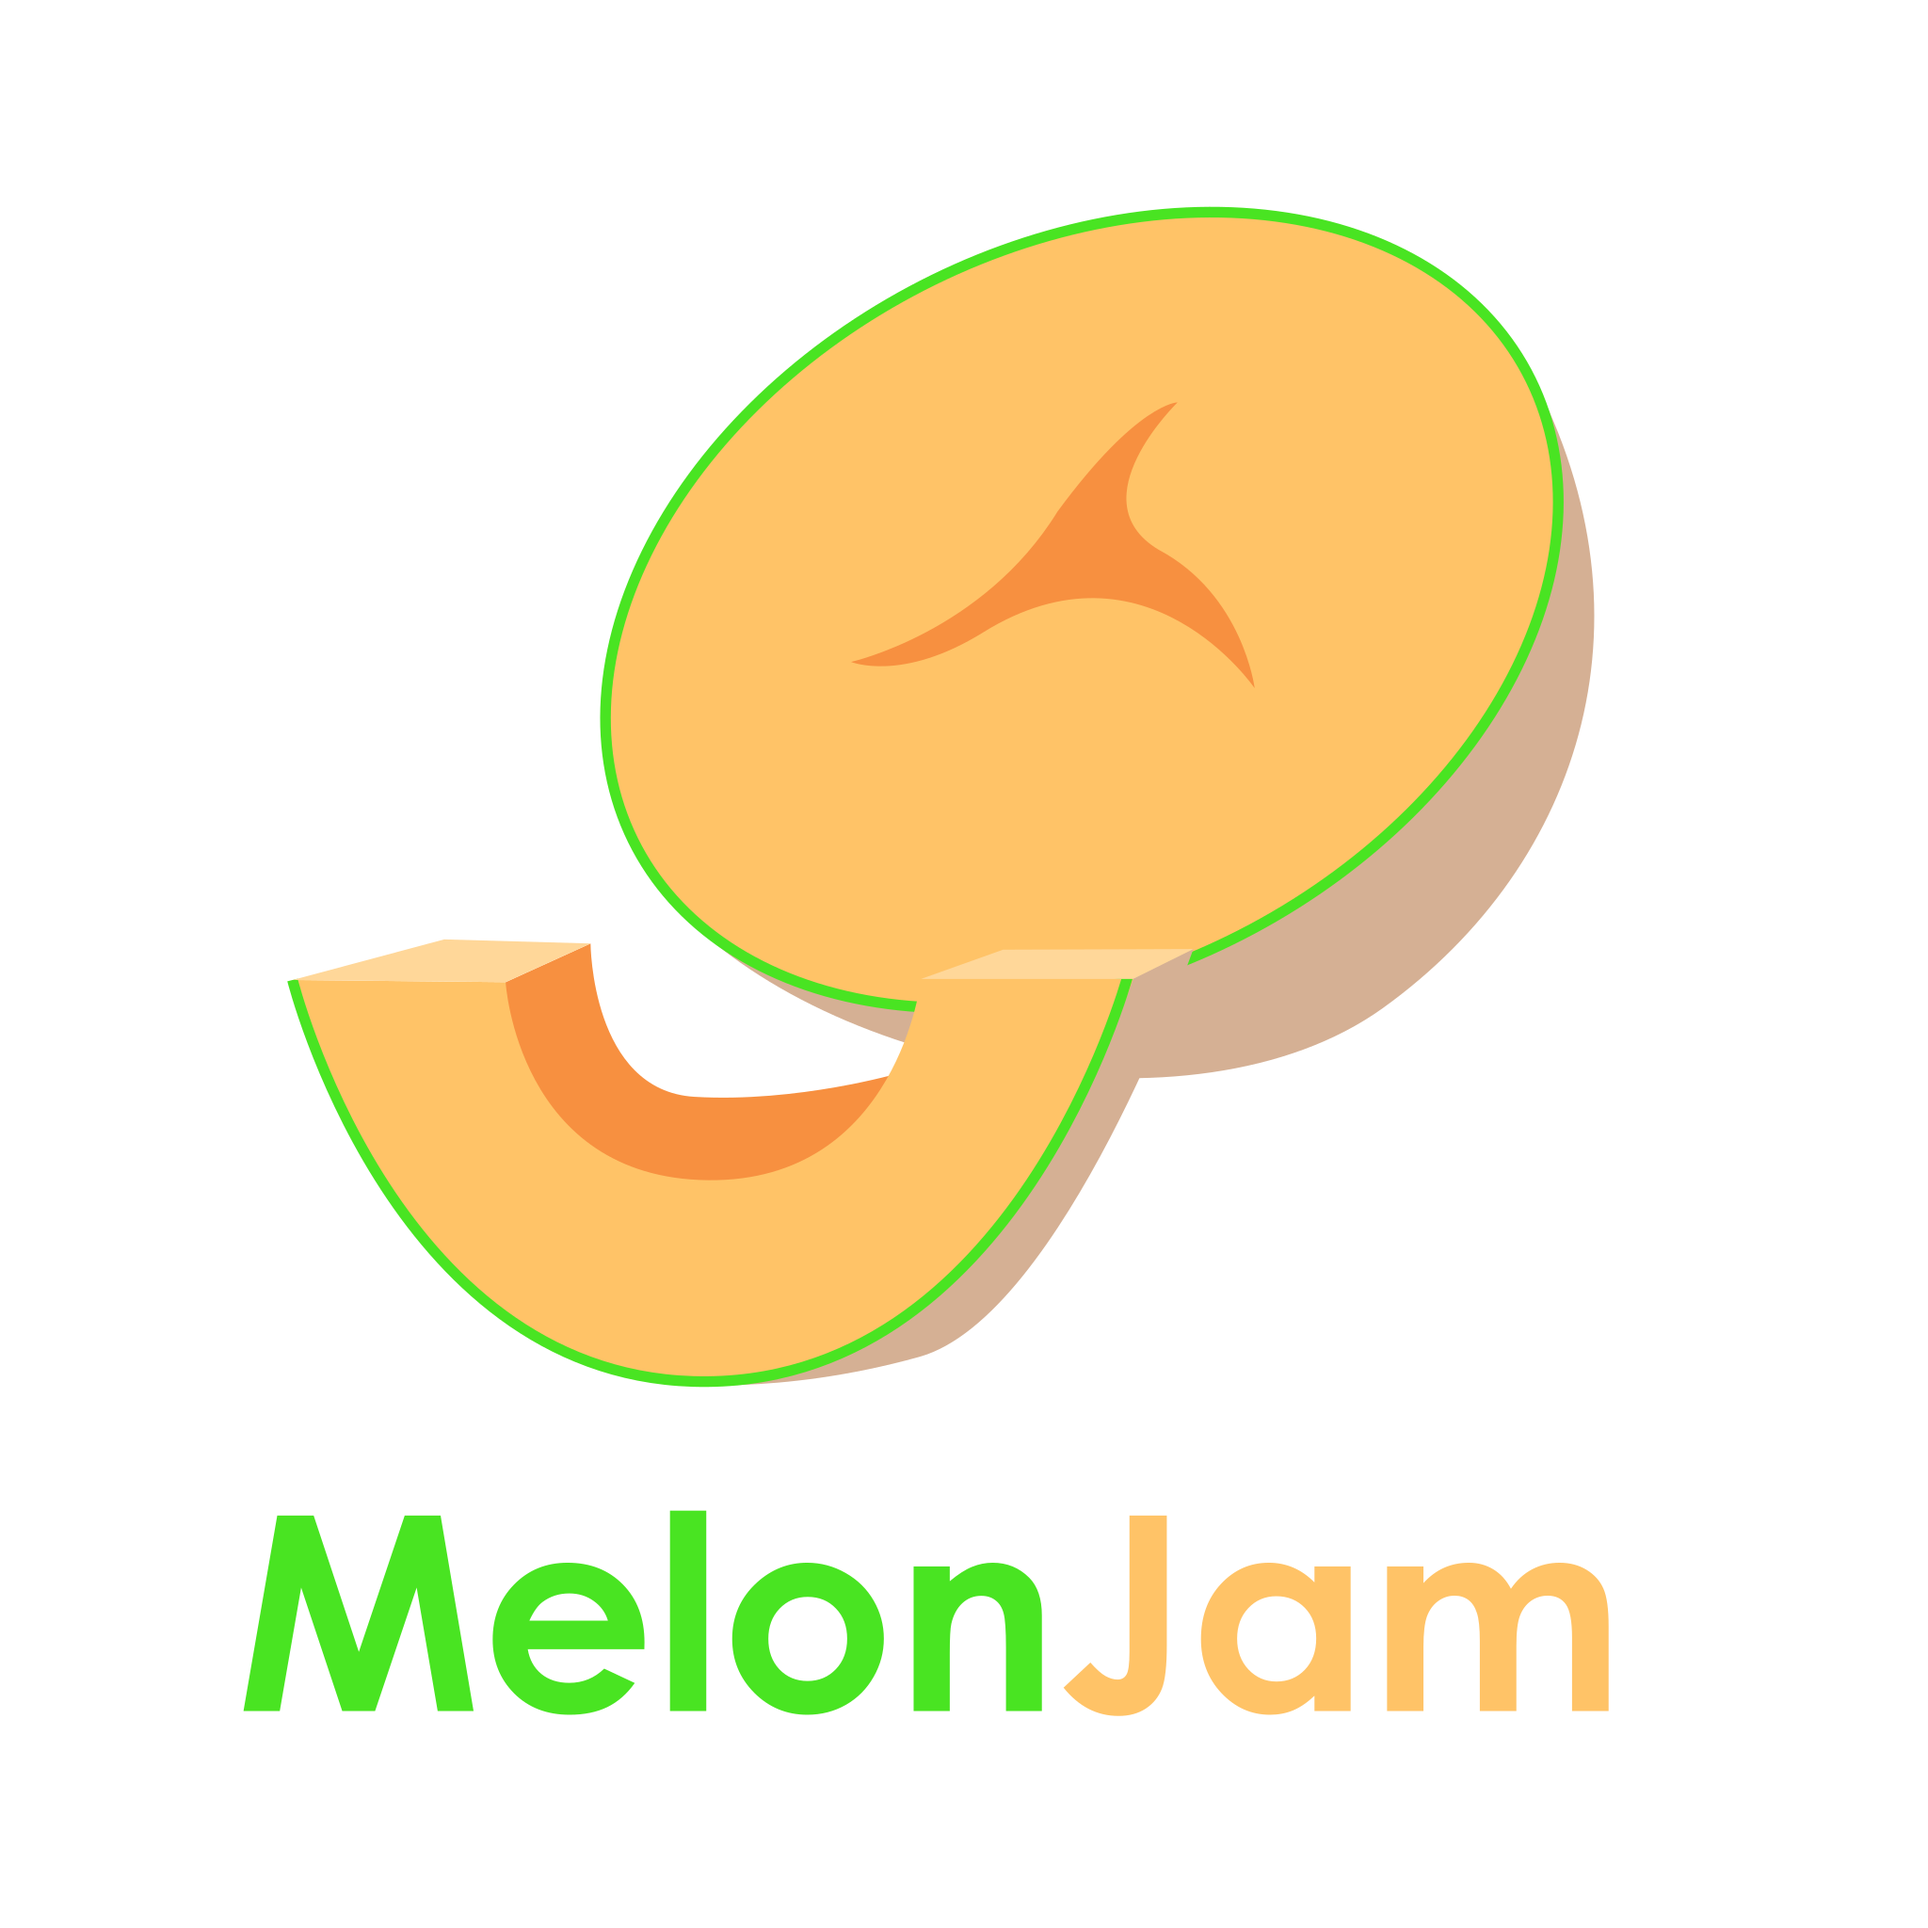
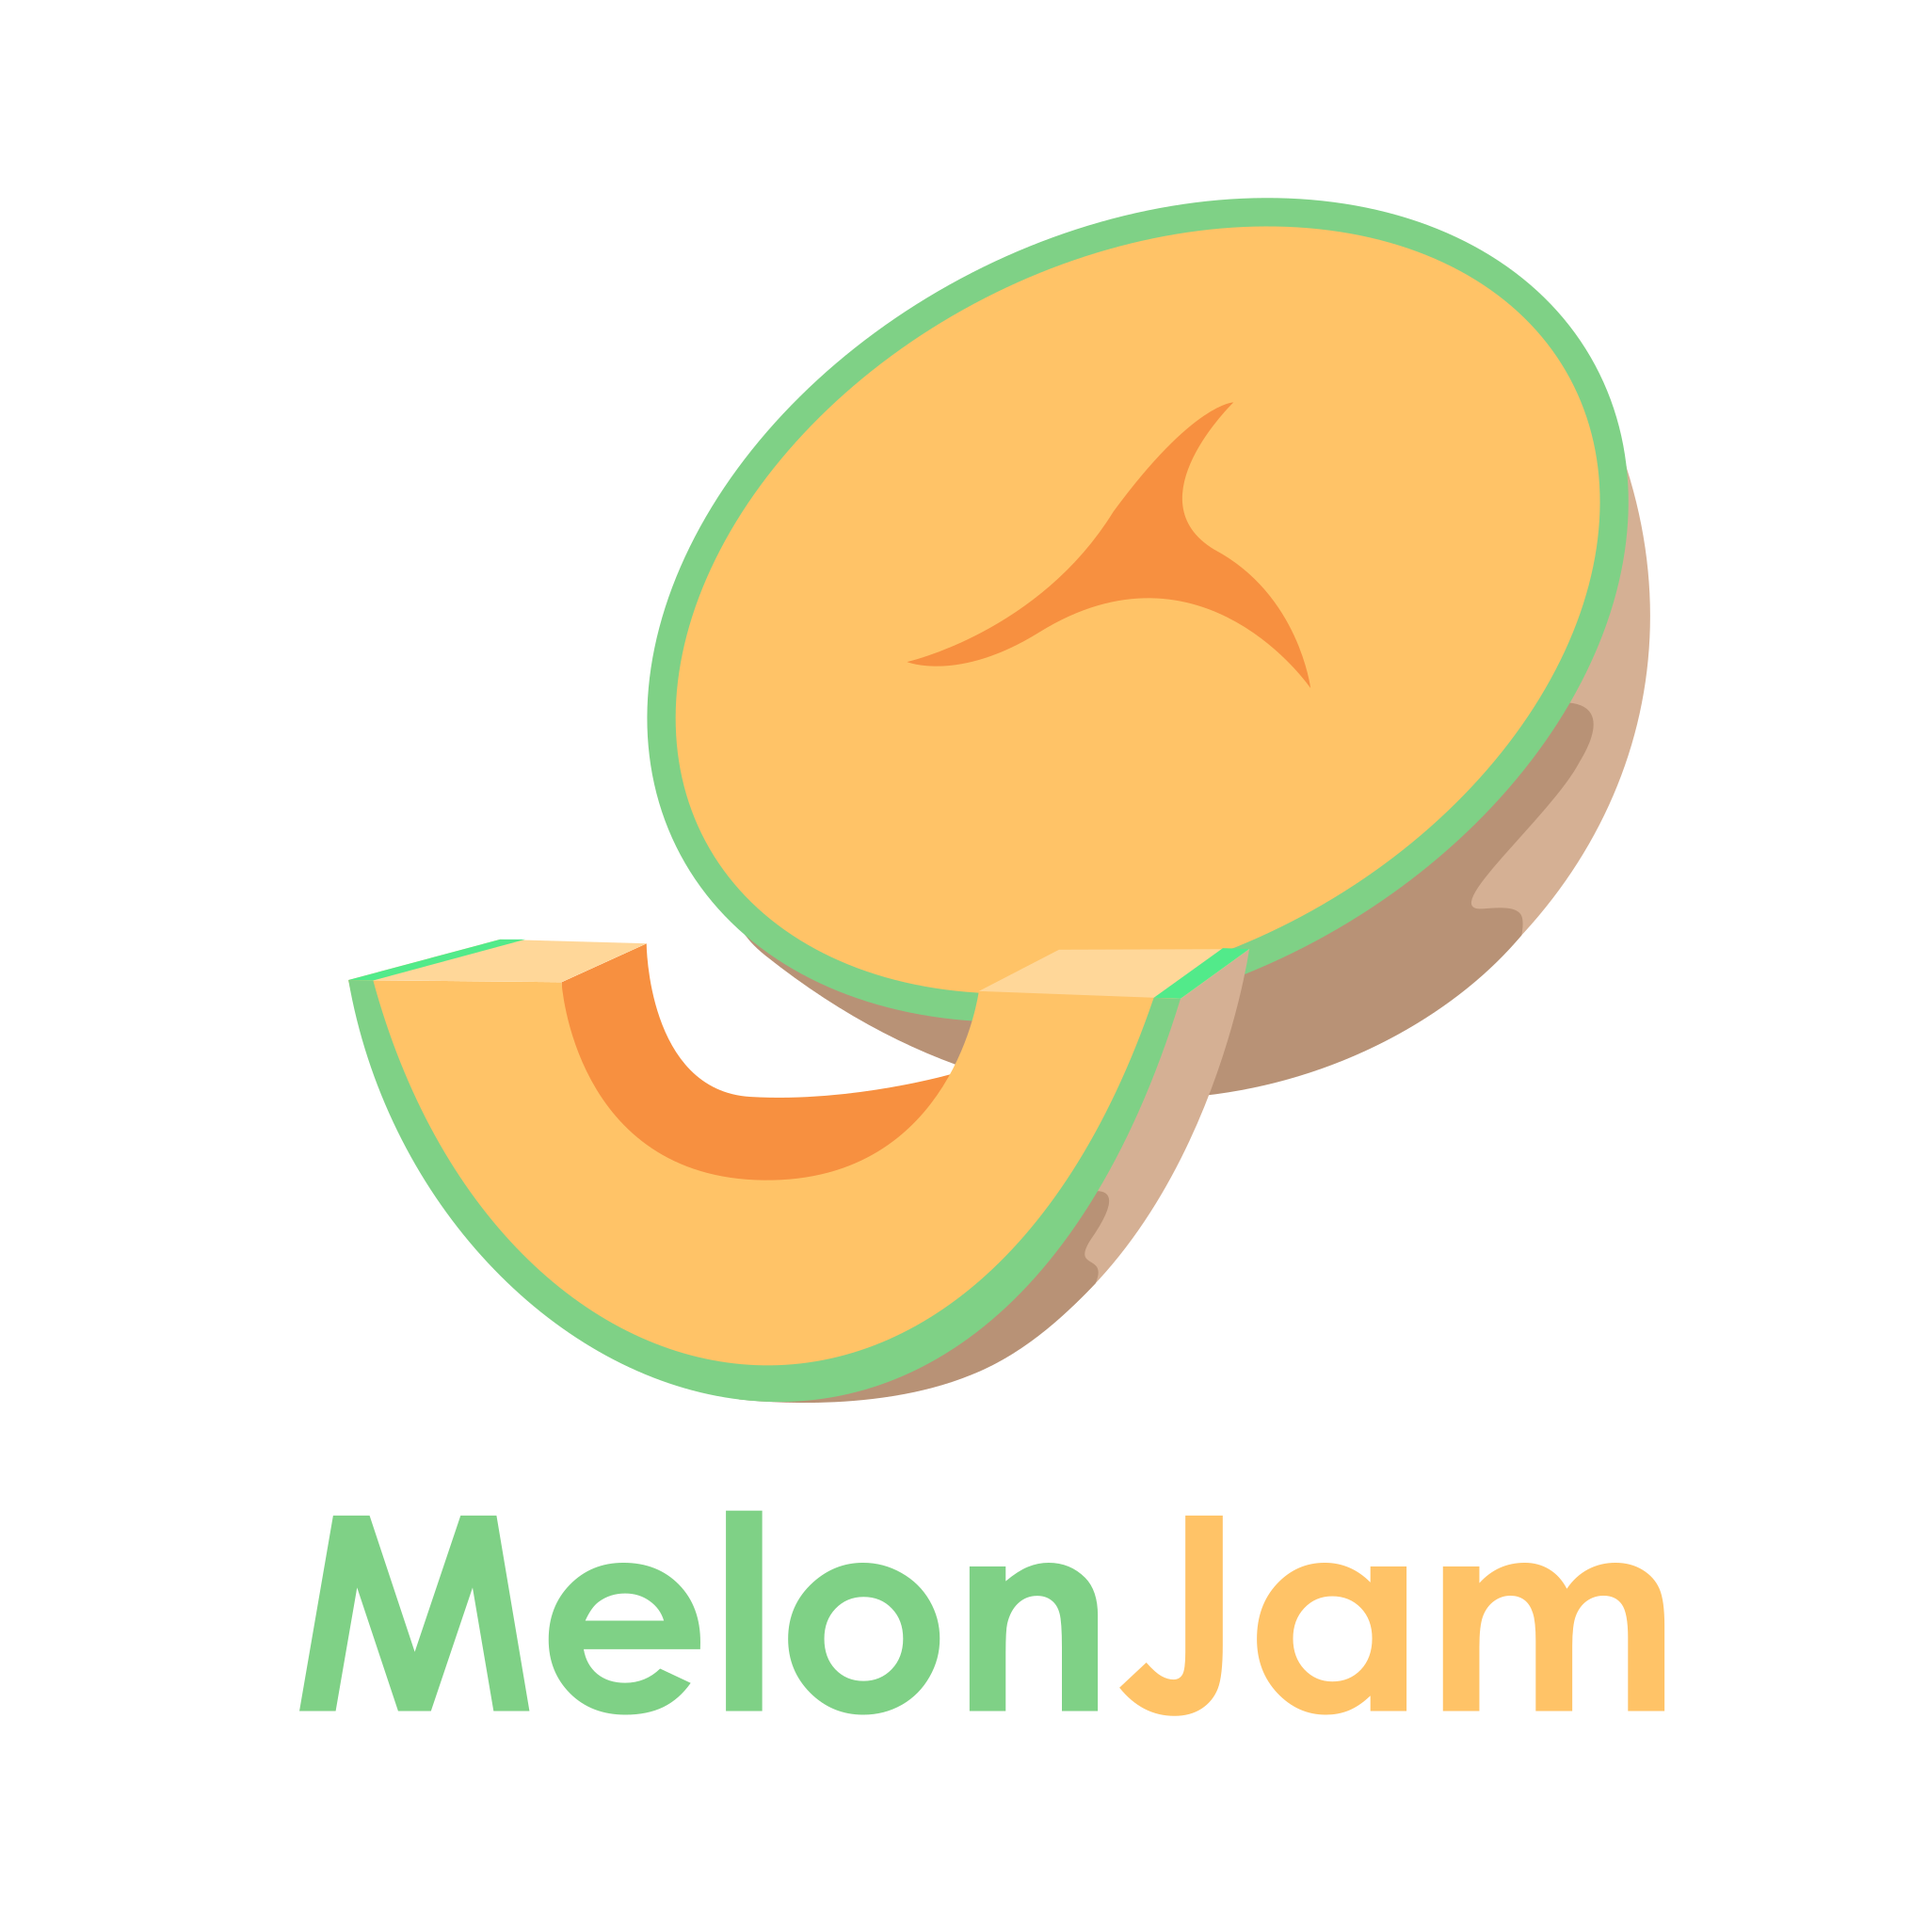
Updated colors

Changed region(s): [[0.125, 0.0938, 0.875, 0.75], [0.125, 0.7812, 0.875, 0.9062], [0.4375, 0.2188, 0.6875, 0.3438]]

diff --git a/css/primary.css b/css/primary.css
@@ -20,13 +20,13 @@ body, html {
 
 /* Handle */
 ::-webkit-scrollbar-thumb {
-    background: rgb(73, 228, 34);
+    background: rgb(127, 209, 134);
     border-radius: 10px;
 }
 
 /* Handle on hover */
 ::-webkit-scrollbar-thumb:hover {
-    background: rgb(66, 205, 31);
+    background: rgb(95, 157, 101);
 }
 
 #header-div {
@@ -49,14 +49,14 @@ body, html {
 .navbutton {
     display: inline-block;
     font-size: 32px;
-    color: rgb(73, 228, 34);
+    color: rgb(127, 209, 134);
     font-weight: 700;
     padding: 12px 24px;
     padding-bottom: 12px;
     border-radius: 0px;
     text-decoration: none;
     position: relative;
-    border-bottom: solid 3px rgb(73, 228, 34);
+    border-bottom: solid 3px rgb(127, 209, 134);
     margin-right: 50px;
     transition: all 0.7s;
 }
@@ -67,7 +67,7 @@ body, html {
     text-decoration: none;
     text-decoration-color: white;
     color: white;
-    background-color: rgb(73, 228, 34);
+    background-color: rgb(127, 209, 134);
 }
 
 #header-logo {
@@ -151,7 +151,7 @@ body, html {
 }
 
 .sponsor {
-    background-color: rgb(73, 228, 34);
+    background-color: rgb(127, 209, 134);
     width: 250px;
     height: 250px;
     display: inline-block;
@@ -208,7 +208,7 @@ body, html {
     background-color: rgb(100, 100, 100);
     height: 200px;
     text-align: center;
-    color: rgb(73, 228, 34);
+    color: rgb(127, 209, 134);
     font-family: 'Century Gothic', sans-serif;
 }
 
@@ -216,7 +216,7 @@ body, html {
     .navbutton {
         font-size: 20px;
         padding: 12px 18px;
-        border-bottom: solid 2px rgb(73, 228, 34);
+        border-bottom: solid 2px rgb(127, 209, 134);
     }
 
     #navbar-logo {
@@ -228,7 +228,7 @@ body, html {
     .navbutton {
         font-size: 28px;
         padding: 12px 96px;
-        border-bottom: solid 3px rgb(73, 228, 34);
+        border-bottom: solid 3px rgb(127, 209, 134);
         margin-bottom: 20px;
     }
 }

diff --git a/index.html b/index.html
@@ -8,8 +8,8 @@
 	<!-- Page Preview Information -->
 	<meta property="og:title" content="MelonJam">
 	<meta property="twitter:title" content="MelonJam">
-	<meta property="og:description" content="MelonJam is...">
-	<meta property="twitter:description" content="MelonJam is...">
+	<meta property="og:description" content="MelonJam is a game jam created by the Cupertino Game Dev Club with the intent of bridging the gap between high schoolers with a game development interest and experienced game developers.">
+	<meta property="twitter:description" content="MelonJam is a game jam created by the Cupertino Game Dev Club with the intent of bridging the gap between high schoolers with a game development interest and experienced game developers.">
 	<meta property="og:image" content="images/melon_withBG.png">
 	<meta property="twitter:image" content="images/melon_withBG.png">
 	<meta property="og:url" content="https://cupertino-gdc.github.io/melonjam/">
@@ -74,7 +74,7 @@
 
 		<img src="images/melon.png" alt="MelonJam" id="header-logo" onclick="scrollToTop()">
 
-		<h1 id="dates"><span style="color: rgb(73, 228, 34);">July 15th</span> <span style="color: rgb(213, 176, 148);">to</span> <span style="color: rgb(255, 195, 103);">July 17th</span></h1>
+		<h1 id="dates"><span style="color: rgb(127, 209, 134);">July 15th</span> <span style="color: rgb(255, 195, 103);">to</span> <span style="color: rgb(255, 195, 103);">July 17th</span></h1>
 
 		<br><br>
 
